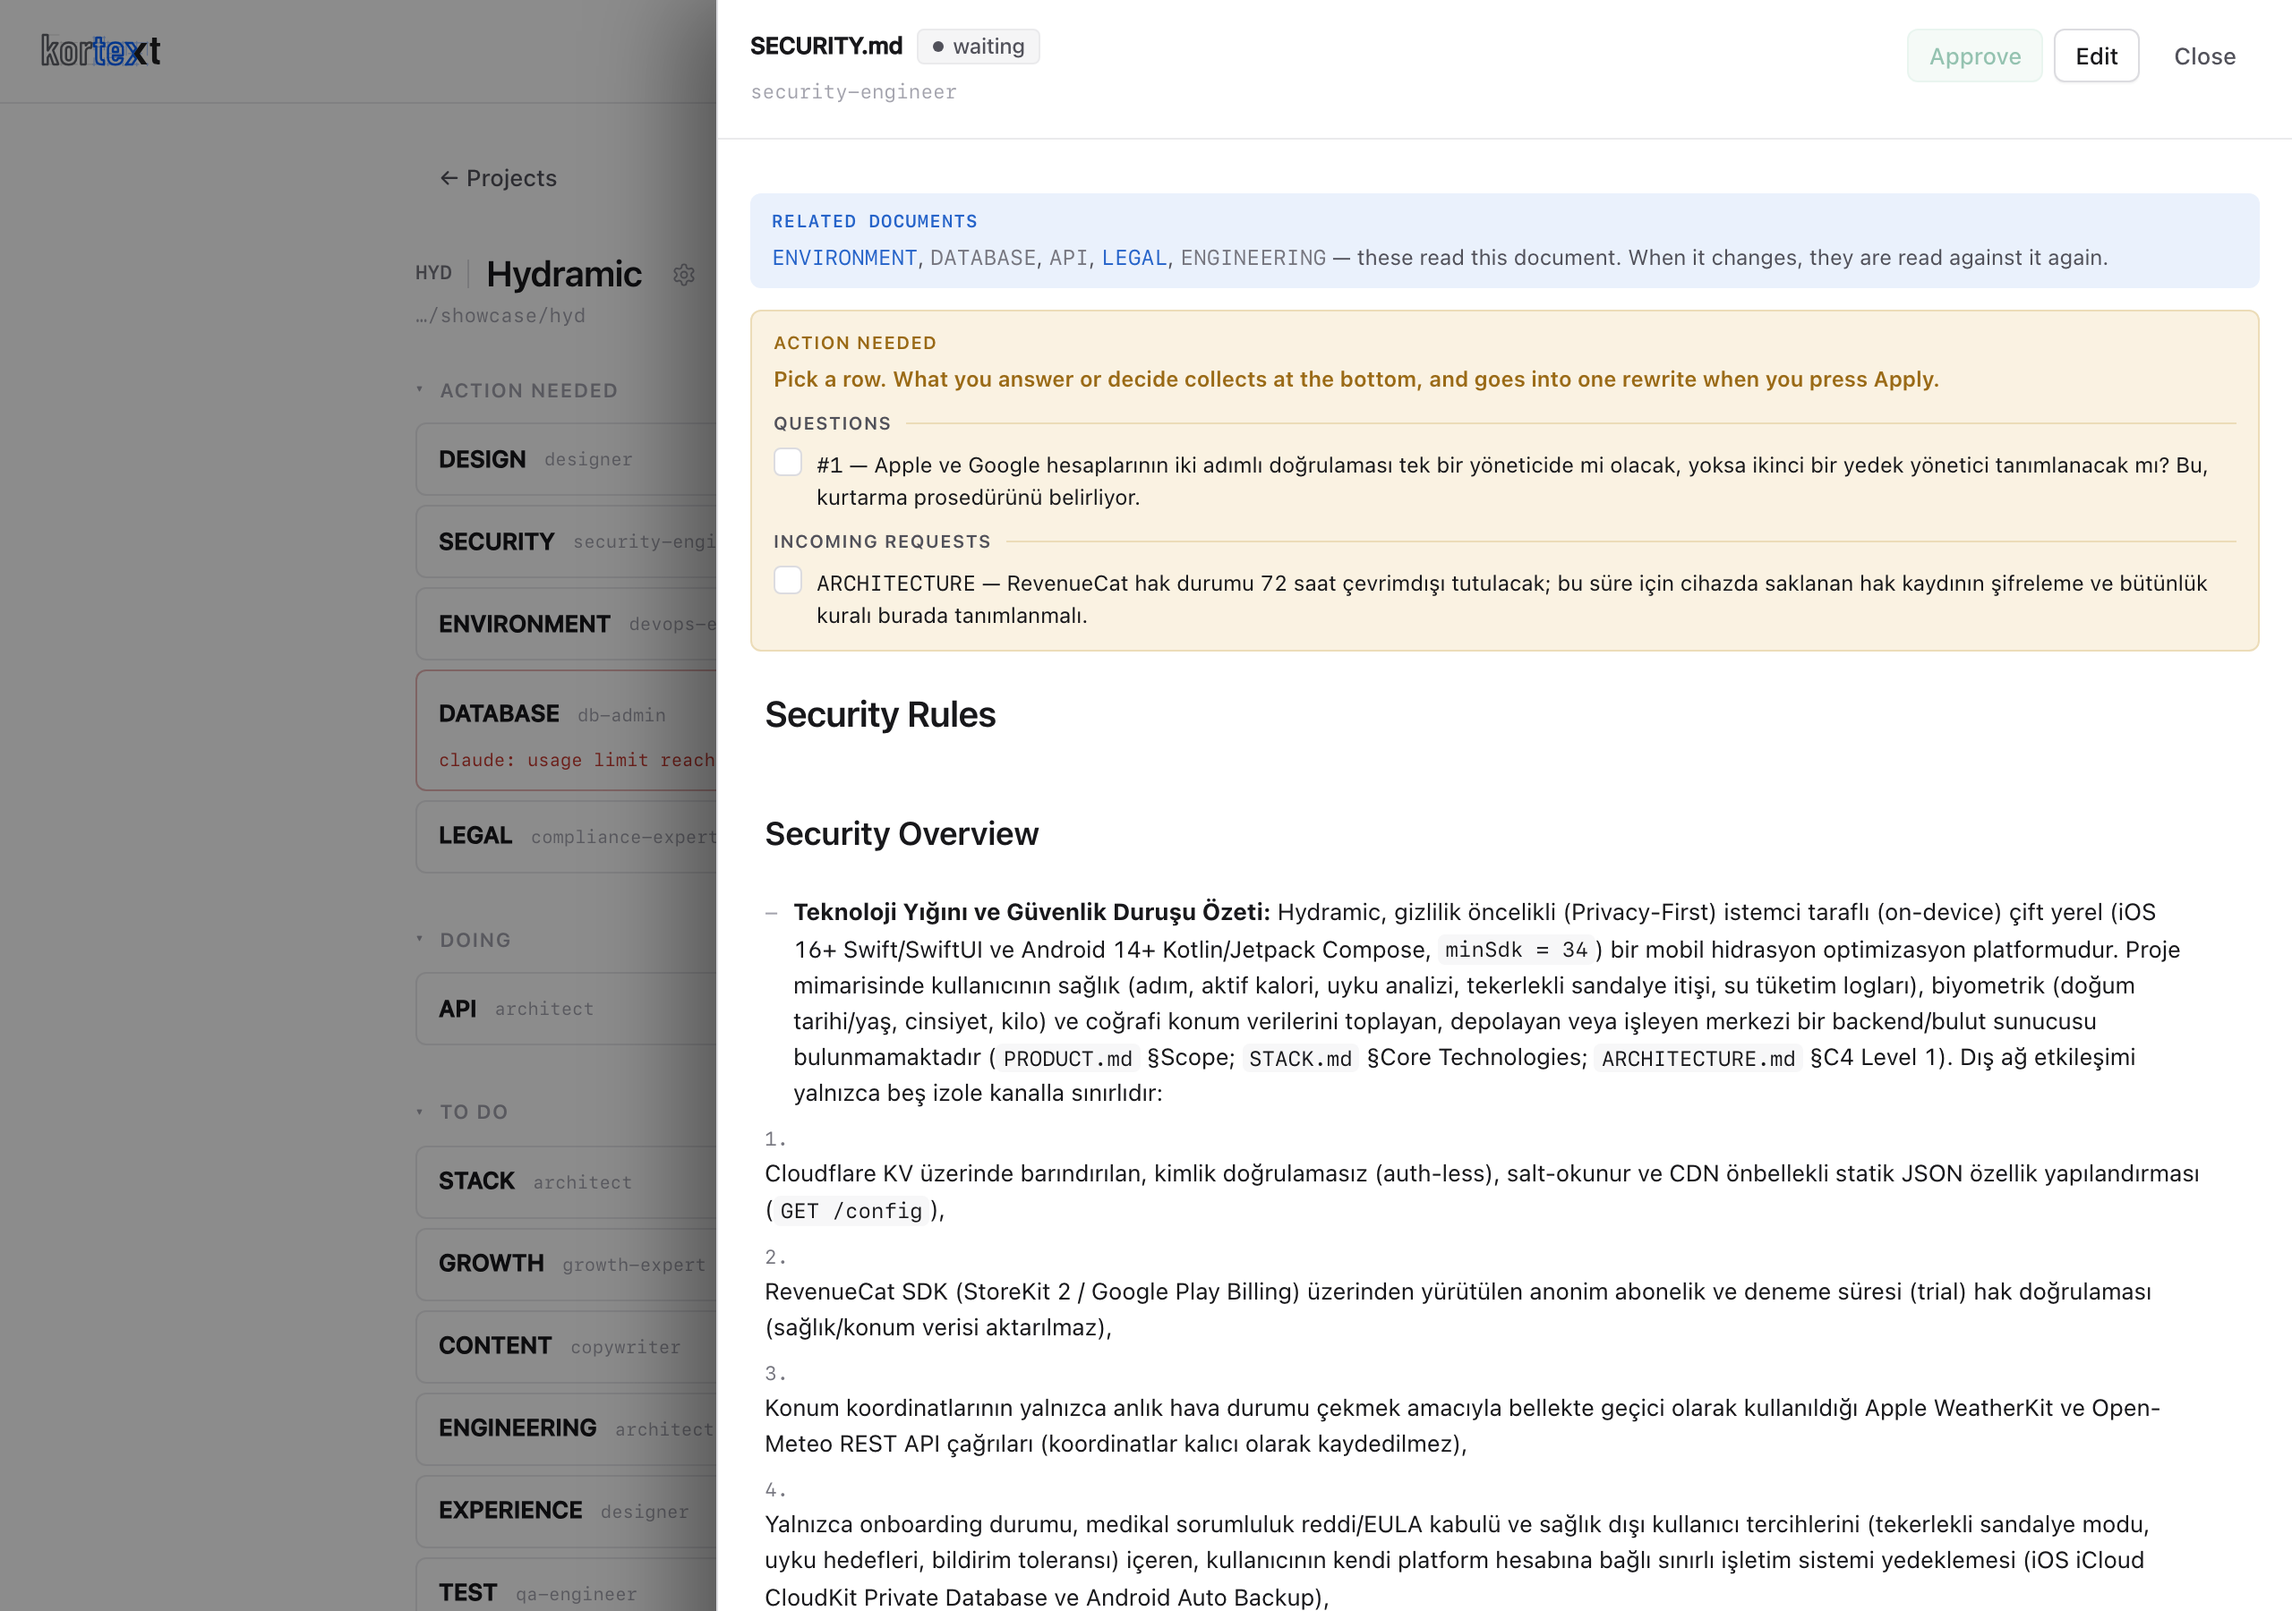
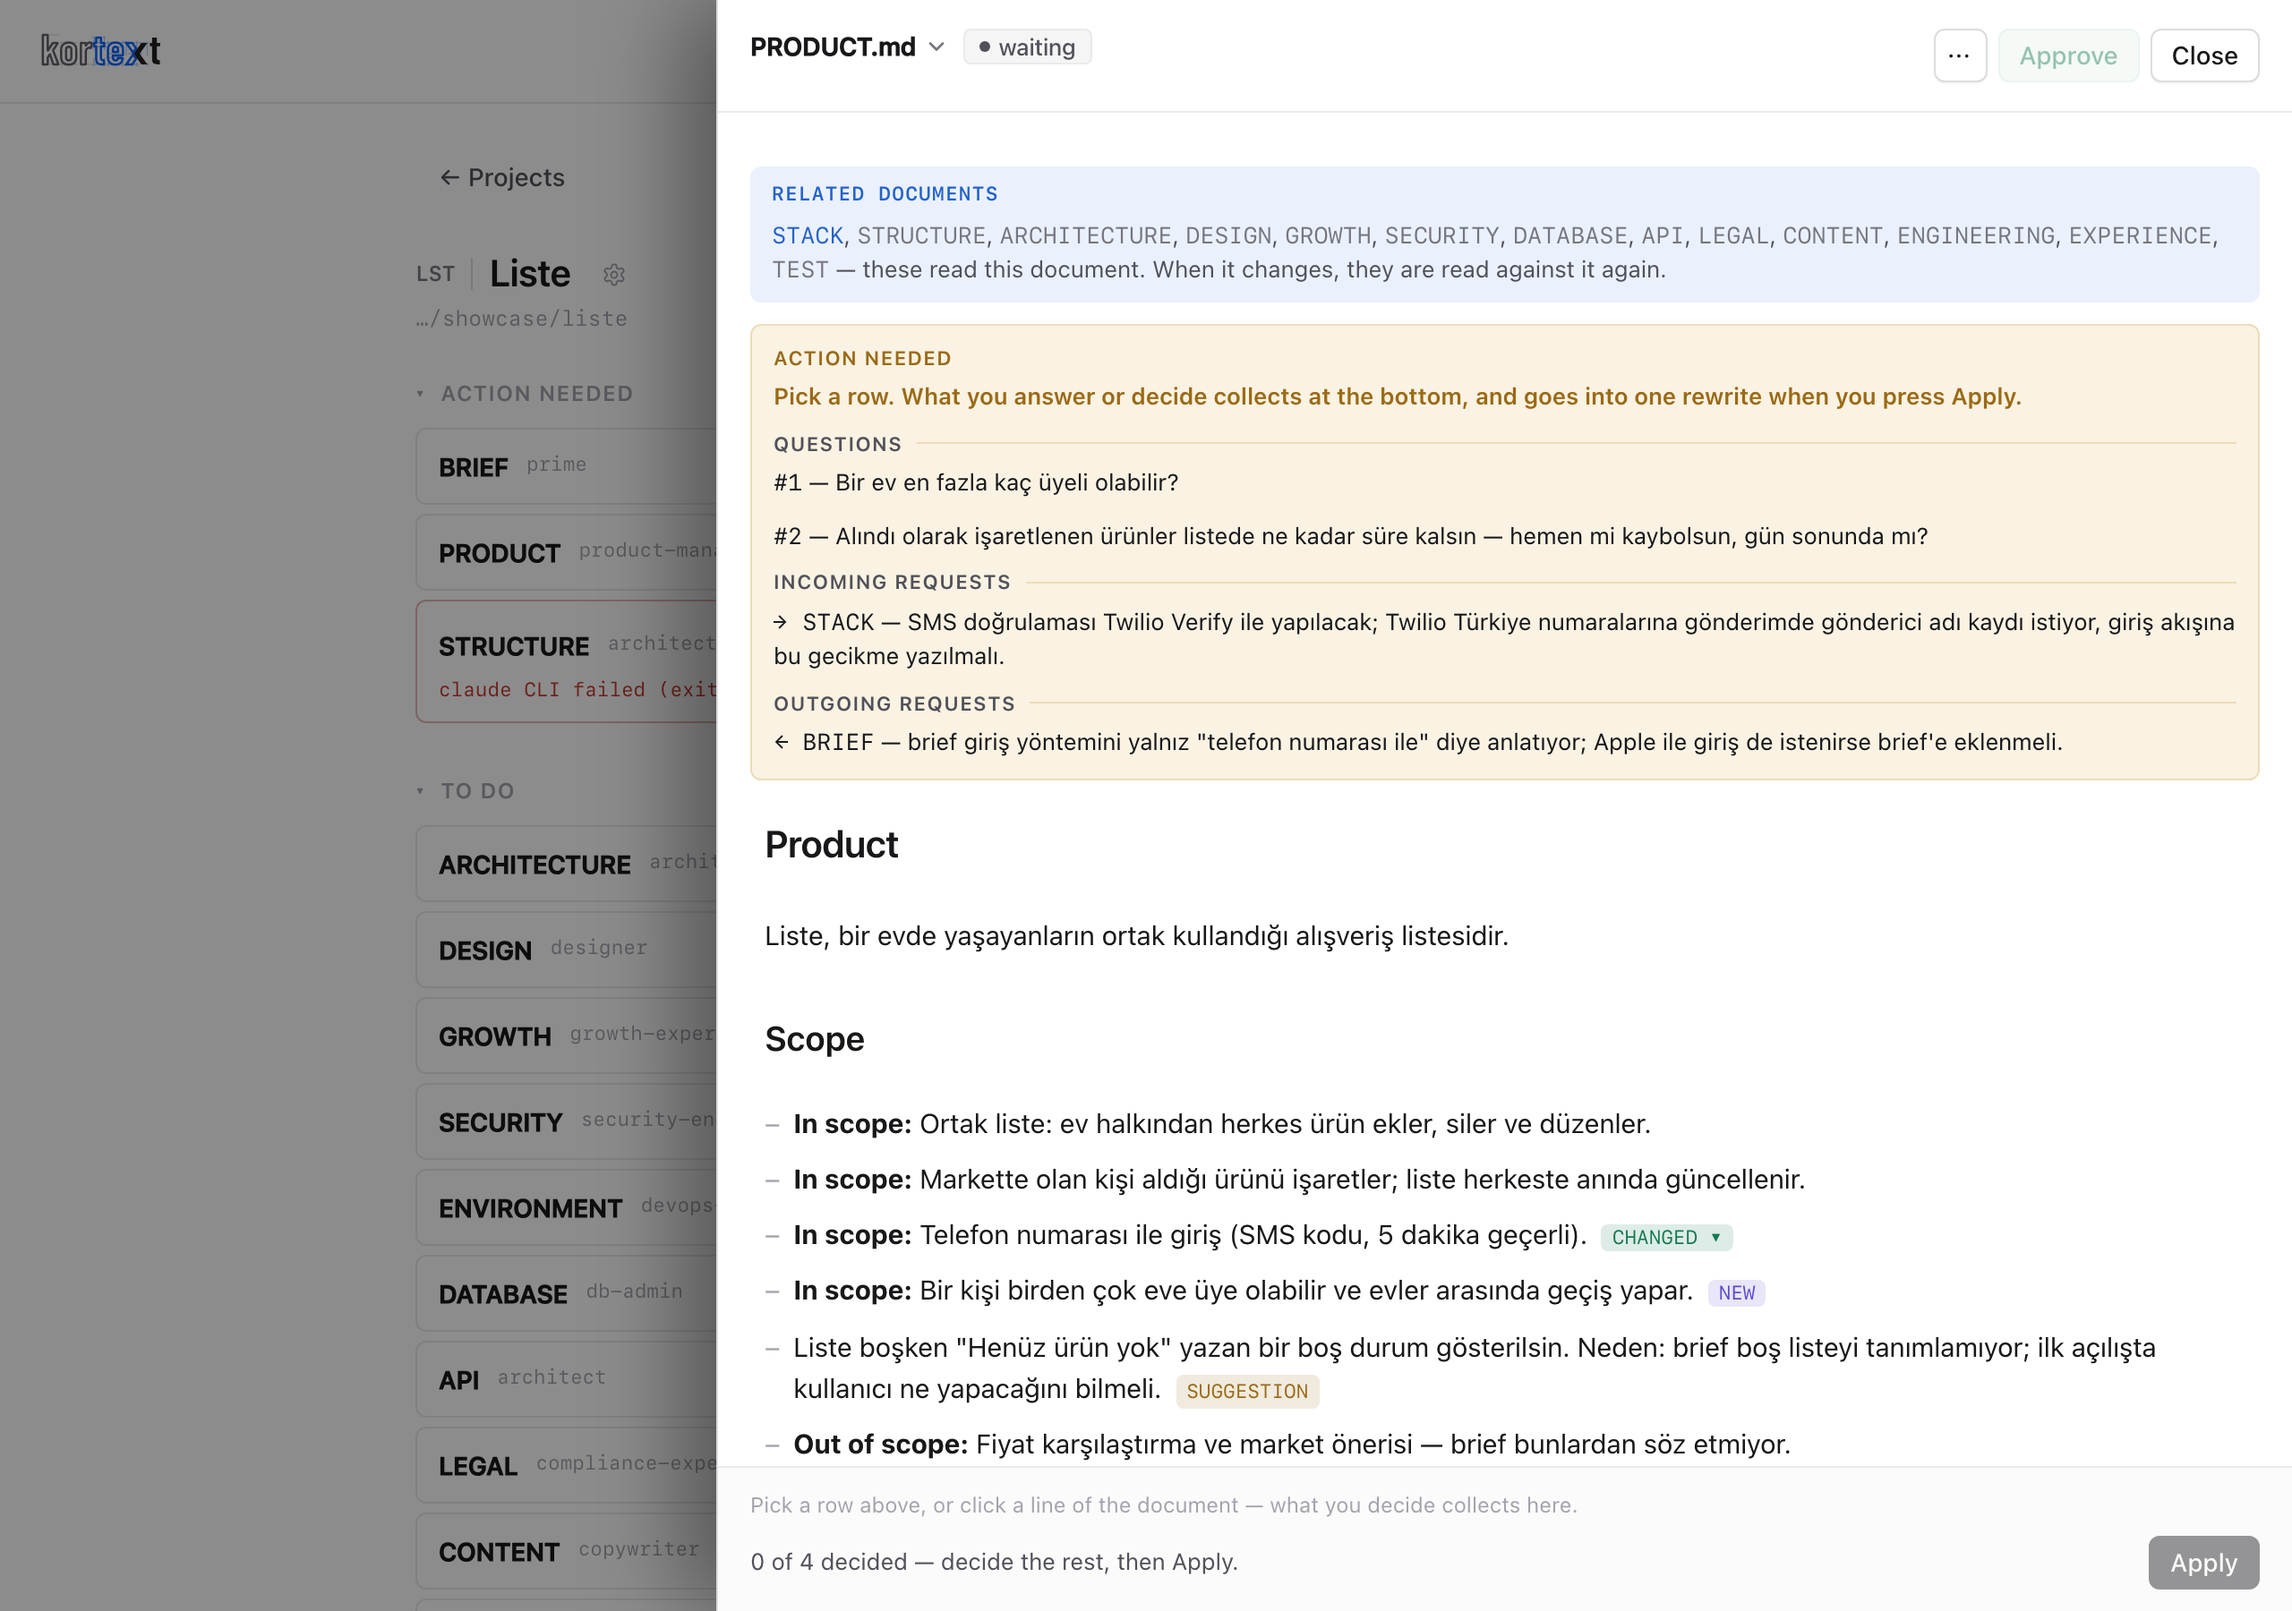
docs: a fresh screenshot of the document drawer
Taken from a showcase project at the old size (1280×900 at 2×, light):
the header with ⋯, Approve and Close, three Action Needed groups with
their arrows, and CHANGED, NEW and SUGGESTION in the text. The caption
no longer names the author line, which is gone.

diff --git a/docs/GUIDE.md b/docs/GUIDE.md
@@ -81,7 +81,7 @@ Beside the state you may see a badge:
 
 ## Reviewing a document
 
-![A document in the drawer: its status, its author, the question it asks and the request it received](assets/panel-document.png)
+![A document in the drawer: its status, the questions it asks, the requests it received and sent, and the CHANGED, NEW and SUGGESTION tags in its text](assets/panel-document.png)
 
 Open any document from the list.
 

diff --git a/docs/tr/GUIDE.md b/docs/tr/GUIDE.md
@@ -81,7 +81,7 @@ Ayrıca durumun yanında bir rozet görebilirsiniz.
 
 ## Bir belgeyi incelemek
 
-![Çekmecede bir belge: durumu, yazarı, sorduğu soru ve gelen istek](../assets/panel-document.png)
+![Çekmecede bir belge: durumu, sorduğu sorular, gelen ve giden istekleri, metnindeki CHANGED, NEW ve SUGGESTION etiketleri](../assets/panel-document.png)
 
 Listeden herhangi bir belgeyi açın.
 
